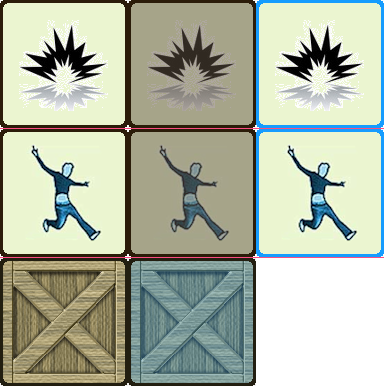
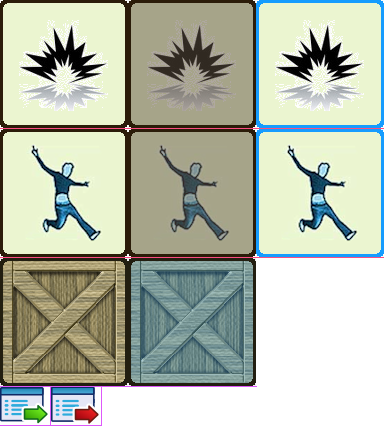
- added game menu

diff --git a/src/EntitySystem/Components/GUILayout.cpp b/src/EntitySystem/Components/GUILayout.cpp
@@ -18,53 +18,53 @@ void EntityComponents::GUILayout::Destroy(void)
 
 void EntityComponents::GUILayout::ReloadWindow(void)
 {  
-  if (mRootWindow) gGUIMgr.DestroyWindowDirectly(mRootWindow);
-  if (mLayout)
-  {
-    if (mScheme) gGUIMgr.LoadProjectScheme(mScheme->GetName());
-    mRootWindow = gGUIMgr.LoadProjectLayout(mLayout->GetName(), ScriptSystem::USER_GUI_WINDOWS_PREFIX);
-    if (mRootWindow)
-    {
-      CEGUI::Window* parentWindow = GlobalProperties::Get<Core::Game>("Game").GetRootWindow();
-      if (parentWindow)
-      {
-        parentWindow->addChildWindow(mRootWindow);
-      }
-      mRootWindow->setVisible(mVisible);
-      mRootWindow->setUserData(GetOwnerPtr());
-      mRootWindow->setUserString("RootWindow", "");
-    }
-  }
+	if (mRootWindow) gGUIMgr.DestroyWindowDirectly(mRootWindow);
+	if (mLayout)
+	{
+		if (mScheme) gGUIMgr.LoadProjectScheme(mScheme->GetName());
+		mRootWindow = gGUIMgr.LoadProjectLayout(mLayout->GetName(), ScriptSystem::USER_GUI_WINDOWS_PREFIX);
+		if (mRootWindow)
+		{
+			CEGUI::Window* parentWindow = GlobalProperties::Get<Core::Game>("Game").GetRootWindow();
+			if (parentWindow)
+			{
+				parentWindow->addChildWindow(mRootWindow);
+			}
+			mRootWindow->setVisible(mVisible);
+			mRootWindow->setUserData(GetOwnerPtr());
+			mRootWindow->setUserString("RootWindow", "");
+		}
+	}
 }
 
 EntityMessage::eResult EntityComponents::GUILayout::HandleMessage(const EntityMessage& msg)
 {
 	if (mCallback && (((msg.type == EntityMessage::INIT || msg.type == EntityMessage::POST_INIT) 
-	  && !gEntityMgr.IsEntityPrototype(GetOwner())) 
-	  || (msg.type == EntityMessage::UPDATE_LOGIC && !mScriptUpdateError && mVisible)))
+		&& !gEntityMgr.IsEntityPrototype(GetOwner())) 
+		|| (msg.type == EntityMessage::UPDATE_LOGIC && !mScriptUpdateError && mVisible)))
 	{
-	  // Get function ID from module name and function declaration
-	  int32 funcId = gScriptMgr.GetFunctionID(mCallback->GetName().c_str(),
-		  EntityMessage::GetHandlerDeclaration(msg.type));
+		// Get function ID from module name and function declaration
+		int32 funcId = gScriptMgr.GetFunctionID(mCallback->GetName().c_str(),
+			EntityMessage::GetHandlerDeclaration(msg.type));
 		if (funcId >= 0) // Function is found
 		{
-		  // Return new context prepared to call function from module
-      AngelScript::asIScriptContext* ctx = gScriptMgr.PrepareContext(funcId);
-      if (ctx != 0)
-      {
-        // Set parent entity handle as context user data
-        ctx->SetUserData(GetOwnerPtr());
-        // Add additional parameters depended on message type
-		    for (uint32 i = 0; i < msg.parameters.GetParametersCount(); ++i)
-		    {
-			    bool result = gScriptMgr.SetFunctionArgument(ctx, i, msg.parameters.GetParameter(i));
-			    OC_ASSERT_MSG(result, "Can't set script function argument; check EntityMessageTypes.h");
-		    }
-        // Execute script with time out
-        if (!gScriptMgr.ExecuteContext(ctx, 1000) && msg.type == EntityMessage::UPDATE_LOGIC) { mScriptUpdateError = true; }
-        // Release context
-        ctx->Release();
-      } else if (msg.type == EntityMessage::UPDATE_LOGIC) { mScriptUpdateError = true; }
+			// Return new context prepared to call function from module
+			AngelScript::asIScriptContext* ctx = gScriptMgr.PrepareContext(funcId);
+			if (ctx != 0)
+			{
+				// Set parent entity handle as context user data
+				ctx->SetUserData(GetOwnerPtr());
+				// Add additional parameters depended on message type
+				for (uint32 i = 0; i < msg.parameters.GetParametersCount(); ++i)
+				{
+					bool result = gScriptMgr.SetFunctionArgument(ctx, i, msg.parameters.GetParameter(i));
+					OC_ASSERT_MSG(result, "Can't set script function argument; check EntityMessageTypes.h");
+				}
+				// Execute script with time out
+				if (!gScriptMgr.ExecuteContext(ctx, 1000) && msg.type == EntityMessage::UPDATE_LOGIC) { mScriptUpdateError = true; }
+				// Release context
+				ctx->Release();
+			} else if (msg.type == EntityMessage::UPDATE_LOGIC) { mScriptUpdateError = true; }
 		}
 	}
 	switch (msg.type)
@@ -74,18 +74,18 @@ EntityMessage::eResult EntityComponents::GUILayout::HandleMessage(const EntityMe
 			if (!gEntityMgr.IsEntityPrototype(GetOwner())) ReloadWindow();	
 			return EntityMessage::RESULT_OK;
 		}
-  case EntityMessage::POST_INIT:
-  case EntityMessage::UPDATE_LOGIC:
-    {
-      return EntityMessage::RESULT_OK;
-    }
-  case EntityMessage::RESOURCE_UPDATE:
-    {
-      mScriptUpdateError = false;
-      HandleMessage(EntityMessage(EntityMessage::INIT));
-		  HandleMessage(EntityMessage(EntityMessage::POST_INIT));
-      return EntityMessage::RESULT_OK;
-    }
+	case EntityMessage::POST_INIT:
+	case EntityMessage::UPDATE_LOGIC:
+		{
+			return EntityMessage::RESULT_OK;
+		}
+	case EntityMessage::RESOURCE_UPDATE:
+		{
+			mScriptUpdateError = false;
+			HandleMessage(EntityMessage(EntityMessage::INIT));
+			HandleMessage(EntityMessage(EntityMessage::POST_INIT));
+			return EntityMessage::RESULT_OK;
+		}
 	default:
 		return EntityMessage::RESULT_IGNORED;
 	}
@@ -103,13 +103,13 @@ void EntityComponents::GUILayout::SetLayout(ResourceSystem::ResourcePtr value)
 { 
 	static const string layoutExt = ".layout";
 	if (value && value->GetType() == ResourceSystem::RESTYPE_CEGUIRESOURCE 
-	  && value->GetName().rfind(layoutExt) == value->GetName().length() - layoutExt.length())
+		&& value->GetName().rfind(layoutExt) == value->GetName().length() - layoutExt.length())
 	{
 		mLayout = value;
 		if (GetOwner().IsInited() && !gEntityMgr.IsEntityPrototype(GetOwner()))
 		{
-		  HandleMessage(EntityMessage(EntityMessage::INIT));
-		  HandleMessage(EntityMessage(EntityMessage::POST_INIT));
+			HandleMessage(EntityMessage(EntityMessage::INIT));
+			HandleMessage(EntityMessage(EntityMessage::POST_INIT));
 		}
 	}
 }
@@ -118,13 +118,13 @@ void EntityComponents::GUILayout::SetScheme(ResourceSystem::ResourcePtr value)
 { 
 	static const string layoutExt = ".scheme";
 	if (value && value->GetType() == ResourceSystem::RESTYPE_CEGUIRESOURCE 
-	  && value->GetName().rfind(layoutExt) == value->GetName().length() - layoutExt.length())
+		&& value->GetName().rfind(layoutExt) == value->GetName().length() - layoutExt.length())
 	{
 		mScheme = value;
 		if (GetOwner().IsInited() && !gEntityMgr.IsEntityPrototype(GetOwner()))
 		{
-		  HandleMessage(EntityMessage(EntityMessage::INIT));
-		  HandleMessage(EntityMessage(EntityMessage::POST_INIT));
+			HandleMessage(EntityMessage(EntityMessage::INIT));
+			HandleMessage(EntityMessage(EntityMessage::POST_INIT));
 		}
 	}
 }
@@ -137,14 +137,18 @@ void EntityComponents::GUILayout::SetCallback(ResourceSystem::ResourcePtr value)
 		mScriptUpdateError = false;
 		if (GetOwner().IsInited() && !gEntityMgr.IsEntityPrototype(GetOwner()))
 		{
-		  HandleMessage(EntityMessage(EntityMessage::INIT));
-		  HandleMessage(EntityMessage(EntityMessage::POST_INIT));
+			HandleMessage(EntityMessage(EntityMessage::INIT));
+			HandleMessage(EntityMessage(EntityMessage::POST_INIT));
 		}
 	}
 }
 
 void EntityComponents::GUILayout::SetVisible(bool value)
 { 
-  mVisible = value;
-  if (mRootWindow) mRootWindow->setVisible(mVisible);
+	mVisible = value;
+	if (mRootWindow)
+	{
+		mRootWindow->setVisible(mVisible);
+		mRootWindow->moveToFront();
+	}
 }

diff --git a/src/ScriptSystem/ScriptMgr.cpp b/src/ScriptSystem/ScriptMgr.cpp
@@ -977,6 +977,19 @@ Game& GetGame()
 	return GlobalProperties::Get<Core::Game>("Game");
 }
 
+void QuitGame(Game* self)
+{
+	if (gApp.IsEditMode())
+	{
+		gEditorMgr.RestartAction();
+		gEditorMgr.SwitchActionTool(Editor::EditorMgr::AT_RESTART);
+	}
+	else
+	{
+		gApp.Shutdown();
+	}
+}
+
 void RegisterScriptGame(asIScriptEngine* engine)
 {
 	int32 r;
@@ -989,6 +1002,9 @@ void RegisterScriptGame(asIScriptEngine* engine)
 	r = engine->RegisterObjectMethod("Game", "bool DeleteDynamicProperty(const string &in)", asMETHOD(Game, DeleteDynamicProperty), asCALL_THISCALL); OC_SCRIPT_ASSERT();
 	r = engine->RegisterObjectMethod("Game", "bool LoadFromFile(const string &in)", asMETHOD(Game, LoadFromFile), asCALL_THISCALL); OC_SCRIPT_ASSERT();
 	r = engine->RegisterObjectMethod("Game", "bool SaveToFile(const string &in) const", asMETHOD(Game, SaveToFile), asCALL_THISCALL); OC_SCRIPT_ASSERT();
+	r = engine->RegisterObjectMethod("Game", "void PauseAction()", asMETHOD(Game, PauseAction), asCALL_THISCALL); OC_SCRIPT_ASSERT();
+	r = engine->RegisterObjectMethod("Game", "void ResumeAction()", asMETHOD(Game, ResumeAction), asCALL_THISCALL); OC_SCRIPT_ASSERT();
+	r = engine->RegisterObjectMethod("Game", "void Quit()", asFUNCTION(QuitGame), asCALL_CDECL_OBJFIRST); OC_SCRIPT_ASSERT();
 
 	// Register function that returns it
 	r = engine->RegisterGlobalFunction("Game& get_game()", asFUNCTION(GetGame), asCALL_CDECL); OC_SCRIPT_ASSERT();

diff --git a/doc/userDocumentation/ScriptRegisterContent.tex b/doc/userDocumentation/ScriptRegisterContent.tex
@@ -219,7 +219,10 @@ This class represents the current game. It is registered as a no-handle referenc
   \item bool HasDynamicProperty(const string \&in) const -- returns whether the specified dynamic property exists
   \item bool DeleteDynamicProperty(const string \&in) -- deletes the specified dynamic property
   \item bool LoadFromFile(const string \&in) -- loads the game from the specified file
+  \item void PauseAction() -- pauses the game action until resumed again
+  \item void ResumeAction() -- resumes the game action if paused
   \item bool SaveToFile(const string \&in) -- saves the game to the specified file
+  \item void Quit() -- quits the game
   \item T Get\_T(string \&in) -- gets a value of a dynamic property of a specific name and type T from PropertyTypes.h
   \item void Set\_T(string \&in, T) -- sets a value of a dynamic property of a specific name and type T from PropertyTypes.h
 \end{titled-itemize}

diff --git a/src/GUISystem/ScriptProvider.cpp b/src/GUISystem/ScriptProvider.cpp
@@ -2,6 +2,8 @@
 #include "ScriptProvider.h"
 #include "CEGUICommon.h"
 #include "Core/Game.h"
+#include "Core/Application.h"
+#include "Editor/EditorMgr.h"
 
 #include <angelscript.h>
 
@@ -9,7 +11,8 @@ using namespace GUISystem;
 
 bool ScriptCallback::operator()(const CEGUI::EventArgs &args) const
 {
-	if (!GlobalProperties::Get<Core::Game>("Game").IsActionRunning()) return false;
+	if (gApp.IsEditMode() && gEditorMgr.WasActionRestarted()) return false;
+	if (!gApp.IsEditMode() && !GlobalProperties::Get<Core::Game>("Game").IsActionRunning()) return false;
 	
 	const CEGUI::WindowEventArgs* argument = static_cast<const CEGUI::WindowEventArgs*>(&args);
 

diff --git a/src/Editor/EditorMgr.cpp b/src/Editor/EditorMgr.cpp
@@ -381,6 +381,12 @@ void Editor::EditorMgr::RemoveComponentFromSelectedEntity(const EntitySystem::Co
 	RemoveComponentFromEntity(GetSelectedEntity(), componentId);
 }
 
+
+bool Editor::EditorMgr::WasActionRestarted()
+{
+	return mIsInitialTime && !GlobalProperties::Get<Core::Game>("Game").IsActionRunning();
+}
+
 void Editor::EditorMgr::ResumeAction()
 {
 	Core::Game& game = GlobalProperties::Get<Core::Game>("Game");

diff --git a/src/Editor/EditorMgr.h b/src/Editor/EditorMgr.h
@@ -166,6 +166,9 @@ namespace Editor
 		/// Restarts the edited game action to the initial (saved) state.
 		void RestartAction();
 
+		/// Returns true if the action was restarted and not resumed again yet.
+		bool WasActionRestarted();
+
 		/// Returns true if the input is locked to the game window.
 		bool IsLockedToGame() const;
 

diff --git a/src/Utils/XMLConverter.cpp b/src/Utils/XMLConverter.cpp
@@ -50,5 +50,6 @@ template<>
 ResourceSystem::ResourcePtr XMLConverter::ReadFromXML(ResourceSystem::XMLNodeIterator& input)
 {
 	string name = input.GetChildValue<string>();
+	if (name.empty()) return 0;
 	return gResourceMgr.GetResource("Project", name);
 }
